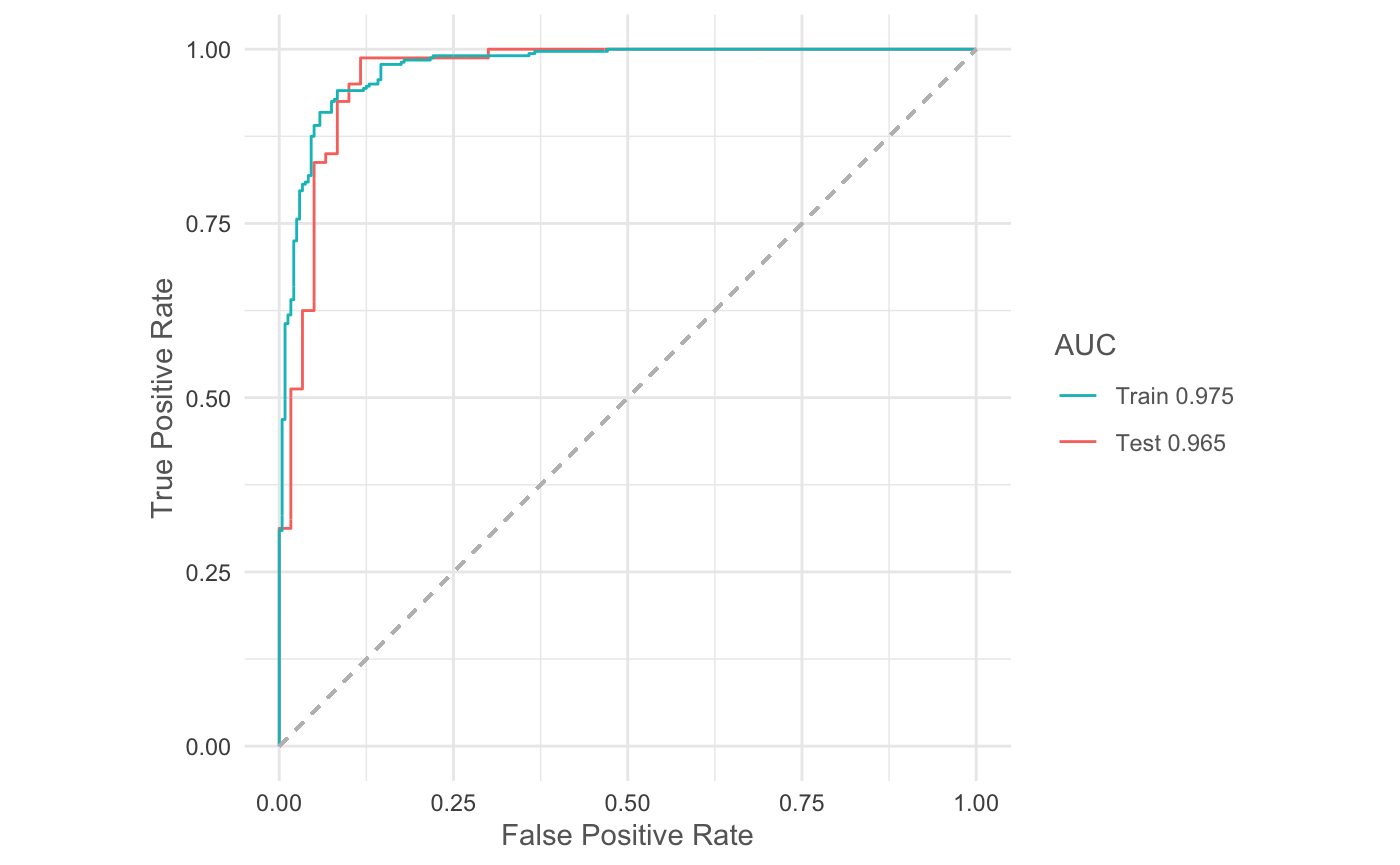
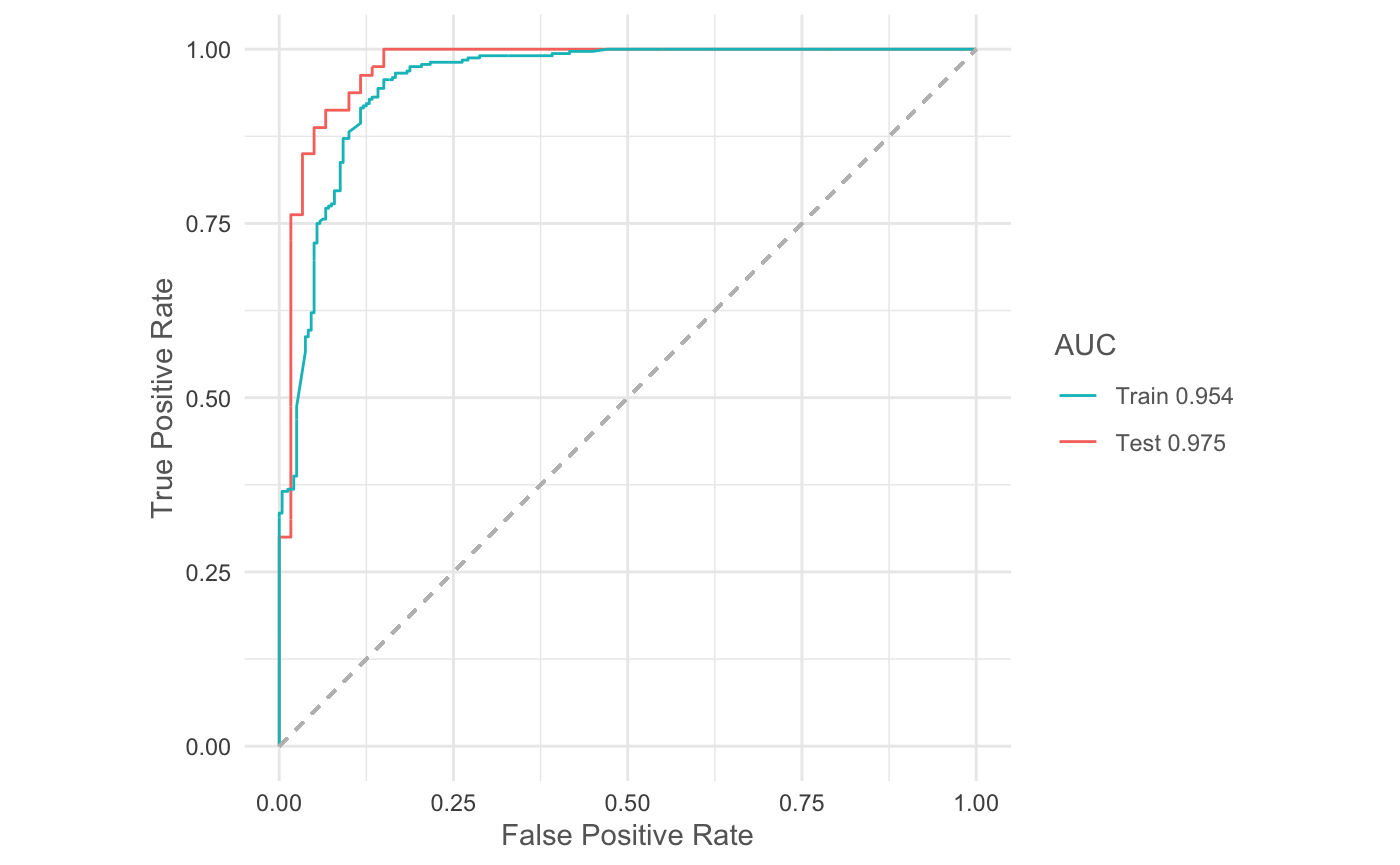
Built site for SDMtune: 1.1.0.9000@18113a8

Changed region(s): [[0.1843, 0.0312, 0.3379, 0.5618], [0.86, 0.437, 0.8907, 0.4682], [0.1843, 0.5931, 0.215, 0.6243]]

diff --git a/dev/articles/articles/train-tune-presence-absence-models.html b/dev/articles/articles/train-tune-presence-absence-models.html
@@ -203,16 +203,17 @@
 <p>To check which hyperparameters can be tuned we use the function <code><a href="../../reference/getTunableArgs.html">getTunableArgs()</a></code> function:</p>
 <div class="sourceCode" id="cb6"><html><body><pre class="r"><span class="fu"><a href="../../reference/getTunableArgs.html">getTunableArgs</a></span>(<span class="no">model</span>)
 <span class="co">#&gt; [1] "size"  "decay" "rang"  "maxit"</span></pre></body></html></div>
-<p>We use the <code><a href="../../reference/optimizeModel.html">optimizeModel()</a></code> function to find the best hyperparameter combinations for the learning rate, the number of trees and the bag fraction:</p>
-<div class="sourceCode" id="cb7"><html><body><pre class="r"><span class="no">h</span> <span class="kw">&lt;-</span> <span class="fu"><a href="https://rdrr.io/r/base/list.html">list</a></span>(<span class="kw">size</span> <span class="kw">=</span> <span class="fl">2</span>:<span class="fl">20</span>, <span class="kw">decay</span> <span class="kw">=</span> <span class="fu"><a href="https://rdrr.io/r/base/c.html">c</a></span>(<span class="fl">0.01</span>, <span class="fl">0.05</span>, <span class="fl">0.1</span>, <span class="fl">0.3</span>, <span class="fl">0.5</span>), <span class="kw">maxit</span> <span class="kw">=</span> <span class="fu"><a href="https://rdrr.io/r/base/c.html">c</a></span>(<span class="fl">100</span>, <span class="fl">300</span>, <span class="fl">500</span>))
+<p>We use the function <code><a href="../../reference/optimizeModel.html">optimizeModel()</a></code> to tune the hyperparameters:</p>
+<div class="sourceCode" id="cb7"><html><body><pre class="r"><span class="no">h</span> <span class="kw">&lt;-</span> <span class="fu"><a href="https://rdrr.io/r/base/list.html">list</a></span>(<span class="kw">size</span> <span class="kw">=</span> <span class="fl">10</span>:<span class="fl">50</span>, <span class="kw">decay</span> <span class="kw">=</span> <span class="fu"><a href="https://rdrr.io/r/base/c.html">c</a></span>(<span class="fl">0.01</span>, <span class="fl">0.05</span>, <span class="fl">0.1</span>, <span class="fl">0.2</span>, <span class="fl">0.3</span>, <span class="fl">0.4</span>, <span class="fl">0.5</span>),
+          <span class="kw">maxit</span> <span class="kw">=</span> <span class="fu"><a href="https://rdrr.io/r/base/c.html">c</a></span>(<span class="fl">50</span>, <span class="fl">100</span>, <span class="fl">300</span>, <span class="fl">500</span>))
 
 <span class="no">om</span> <span class="kw">&lt;-</span> <span class="fu"><a href="../../reference/optimizeModel.html">optimizeModel</a></span>(<span class="no">model</span>, <span class="kw">hypers</span> <span class="kw">=</span> <span class="no">h</span>, <span class="kw">metric</span> <span class="kw">=</span> <span class="st">"auc"</span>, <span class="kw">seed</span> <span class="kw">=</span> <span class="fl">25</span>)</pre></body></html></div>
 <p>The best model is:</p>
 <div class="sourceCode" id="cb8"><html><body><pre class="r"><span class="no">best_model</span> <span class="kw">&lt;-</span> <span class="no">om</span>@<span class="kw">models</span><span class="kw">[[</span><span class="fl">1</span>]]
 <span class="no">om</span>@<span class="kw">results</span>[<span class="fl">1</span>, ]
-<span class="co">#&gt;   size decay rang maxit train_AUC  test_AUC   diff_AUC</span>
-<span class="co">#&gt; 1   14   0.5  0.7   300 0.9803993 0.9554167 0.02498264</span></pre></body></html></div>
-<p>The validation AUC increased from 0.7939844 of the default models to 0.9554167 of the optimized one.</p>
+<span class="co">#&gt;   size decay rang maxit train_AUC  test_AUC  diff_AUC</span>
+<span class="co">#&gt; 1   34   0.4  0.7   100 0.9631337 0.9522396 0.0108941</span></pre></body></html></div>
+<p>The validation AUC increased from 0.7939844 of the default models to 0.9522396 of the optimized one.</p>
 </div>
 <div id="evaluate-the-final-model" class="section level2">
 <h2 class="hasAnchor">

diff --git a/dev/articles/presence-absence.html b/dev/articles/presence-absence.html
@@ -170,9 +170,9 @@
 <a href="#tune-model-hyperparameters" class="anchor"></a>Tune model hyperparameters</h1>
 <p>To check which hyperparameters can be tuned we use the function <code>getTunableArgs</code> function:</p>
 <div class="sourceCode" id="cb4"><html><body><pre class="r"><span class="fu"><a href="../reference/getTunableArgs.html">getTunableArgs</a></span>(<span class="no">model</span>)</pre></body></html></div>
-<p>We use the <code>optimizeModel</code> function to find the best hyperparameter combinations for the learning rate, the number of trees and the bag fraction:</p>
-<div class="sourceCode" id="cb5"><html><body><pre class="r"><span class="no">h</span> <span class="kw">&lt;-</span> <span class="fu"><a href="https://rdrr.io/r/base/list.html">list</a></span>(<span class="kw">size</span> <span class="kw">=</span> <span class="fl">2</span>:<span class="fl">20</span>, <span class="kw">decay</span> <span class="kw">=</span> <span class="fu"><a href="https://rdrr.io/r/base/c.html">c</a></span>(<span class="fl">0.01</span>, <span class="fl">0.05</span>, <span class="fl">0.1</span>, <span class="fl">0.3</span>, <span class="fl">0.5</span>),
-          <span class="kw">maxit</span> <span class="kw">=</span> <span class="fu"><a href="https://rdrr.io/r/base/c.html">c</a></span>(<span class="fl">100</span>, <span class="fl">300</span>, <span class="fl">500</span>))
+<p>We use the function <code>optimizeModel</code> to tune the hyperparameters:</p>
+<div class="sourceCode" id="cb5"><html><body><pre class="r"><span class="no">h</span> <span class="kw">&lt;-</span> <span class="fu"><a href="https://rdrr.io/r/base/list.html">list</a></span>(<span class="kw">size</span> <span class="kw">=</span> <span class="fl">10</span>:<span class="fl">50</span>, <span class="kw">decay</span> <span class="kw">=</span> <span class="fu"><a href="https://rdrr.io/r/base/c.html">c</a></span>(<span class="fl">0.01</span>, <span class="fl">0.05</span>, <span class="fl">0.1</span>, <span class="fl">0.2</span>, <span class="fl">0.3</span>, <span class="fl">0.4</span>, <span class="fl">0.5</span>),
+          <span class="kw">maxit</span> <span class="kw">=</span> <span class="fu"><a href="https://rdrr.io/r/base/c.html">c</a></span>(<span class="fl">50</span>, <span class="fl">100</span>, <span class="fl">300</span>, <span class="fl">500</span>))
 
 <span class="no">om</span> <span class="kw">&lt;-</span> <span class="fu"><a href="../reference/optimizeModel.html">optimizeModel</a></span>(<span class="no">model</span>, <span class="kw">hypers</span> <span class="kw">=</span> <span class="no">h</span>, <span class="kw">metric</span> <span class="kw">=</span> <span class="st">"auc"</span>, <span class="kw">seed</span> <span class="kw">=</span> <span class="fl">25</span>)</pre></body></html></div>
 <p>The best model is:</p>
